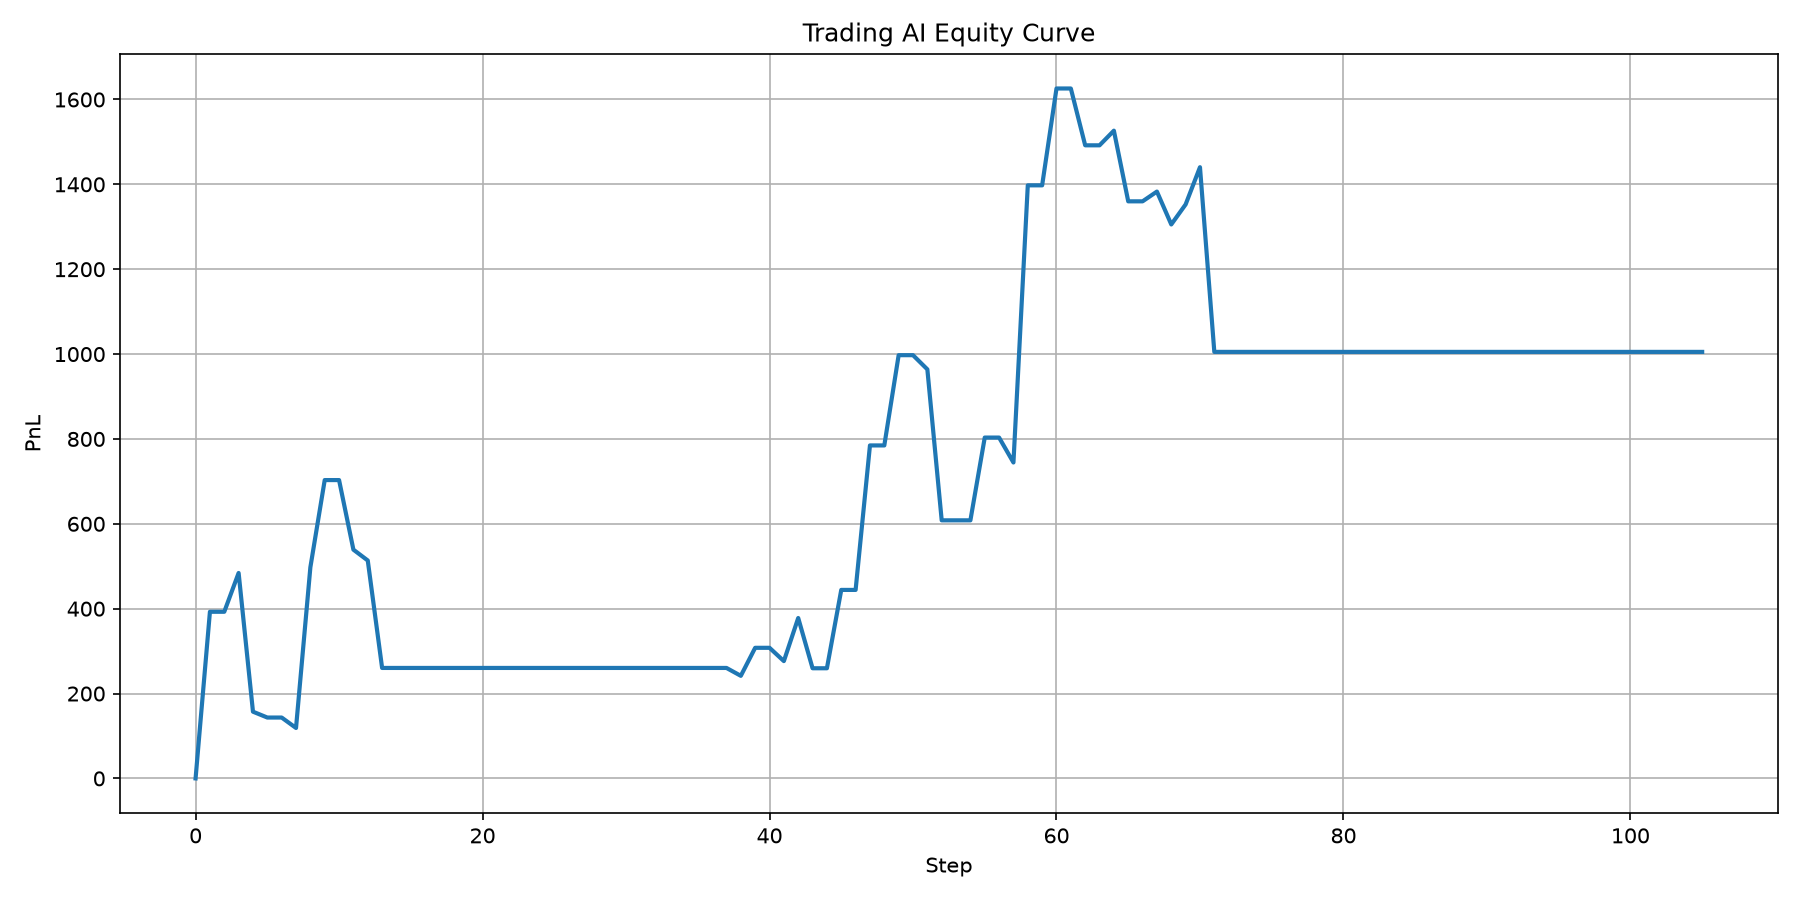
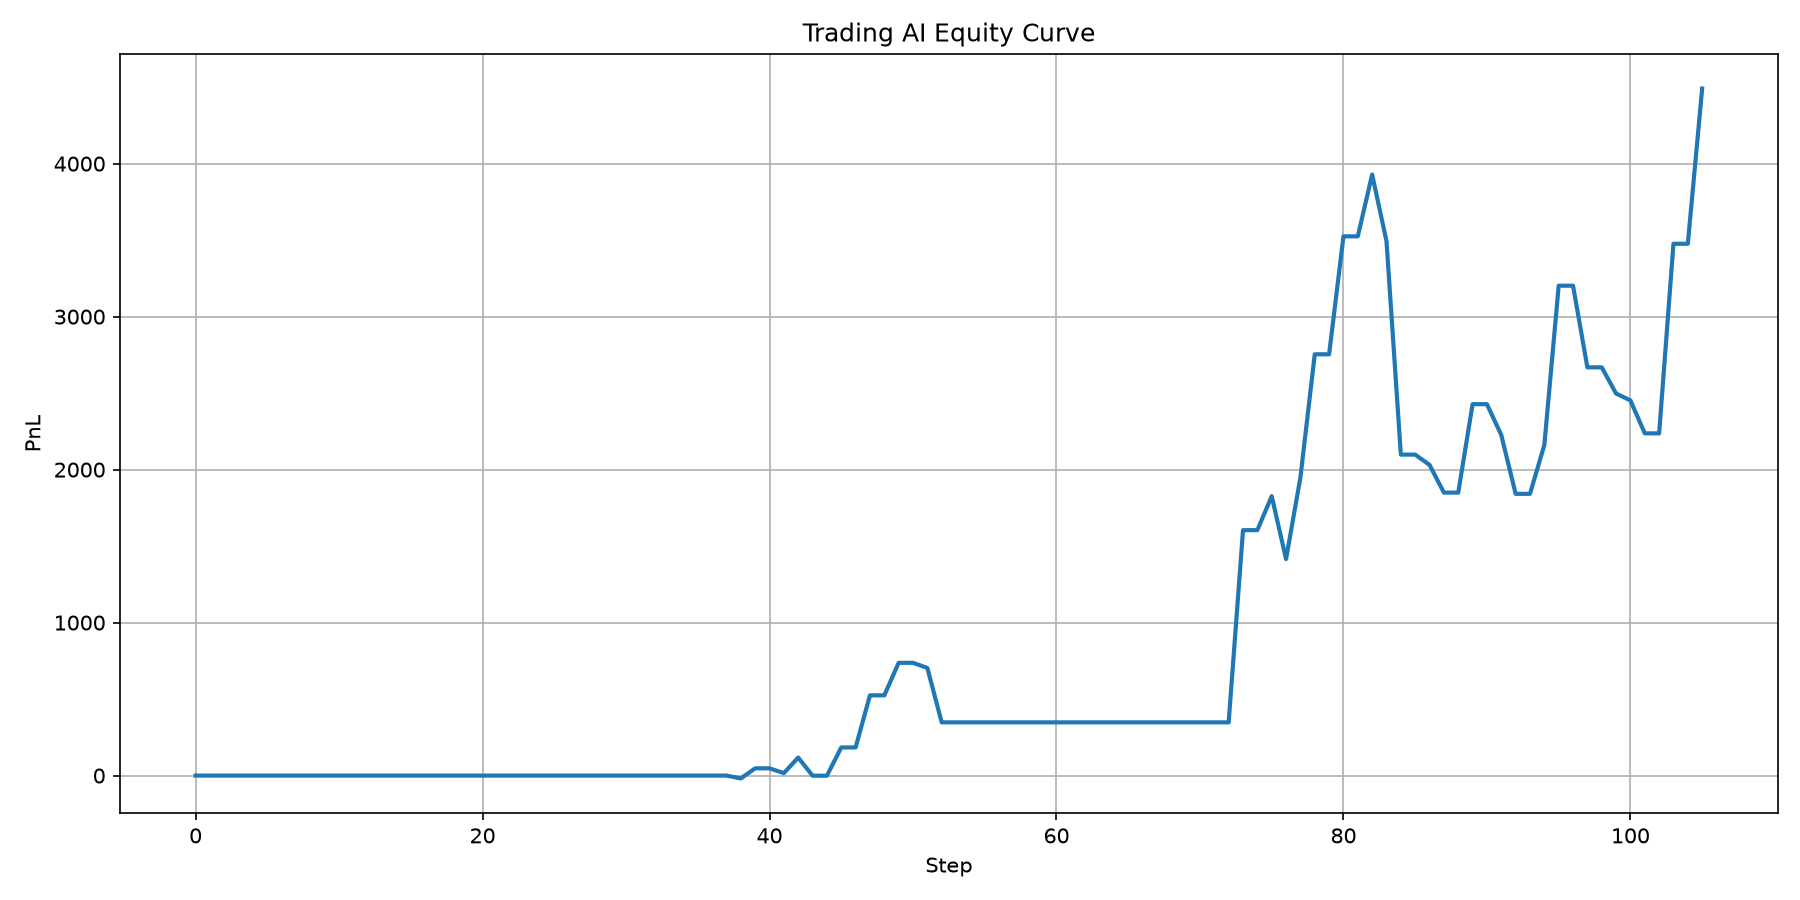
Stable options backtester with pricing, risk sizing, filters, reports, and regime strategy stats

diff --git a/src/trading_ai/strategy/engine.py b/src/trading_ai/strategy/engine.py
@@ -8,14 +8,14 @@ class StrategyEngine:
 
     def recommend(self, symbol, ctx, analytics):
 
-        # Stronger pre-Phase-8 logic:
-        # choose direction by score, not regime.
-        if ctx.call_score >= ctx.put_score:
-            strategy = "LONG_CALL"
+        score = self._score(ctx, analytics)
+
+        if score >= 60:
             signal = "CALL"
+            strategy = "LONG_CALL"
         else:
-            strategy = "LONG_PUT"
             signal = "PUT"
+            strategy = "LONG_PUT"
 
         option = self.options_engine.select_contract(
             symbol,
@@ -26,8 +26,6 @@ class StrategyEngine:
 
         if option is None:
             return None
-
-        score = self._score(ctx, option, analytics, strategy)
 
         return TradeRecommendation(
             symbol=symbol,
@@ -44,13 +42,28 @@ class StrategyEngine:
             option=option,
         )
 
-    def _score(self, ctx, option, analytics, strategy):
+    def _score(self, ctx, analytics):
 
-        if strategy == "LONG_CALL":
-            return float(ctx.call_score)
+        score = 50.0
 
-        if strategy == "LONG_PUT":
-            return float(ctx.put_score)
+        if ctx.market_regime == "BULL_TREND":
+            score += 15
+        elif ctx.market_regime == "BEAR_TREND":
+            score -= 15
 
-        return 0.0
+        if ctx.rsi14 > 55:
+            score += 10
+        elif ctx.rsi14 < 40:
+            score -= 10
 
+        iv_rank = analytics.get("iv_rank", 0.5)
+
+        if iv_rank > 0.7:
+            score += 10
+        elif iv_rank < 0.3:
+            score -= 5
+
+        if ctx.em_ratio > 0.05:
+            score += 5
+
+        return float(max(0, min(100, score)))